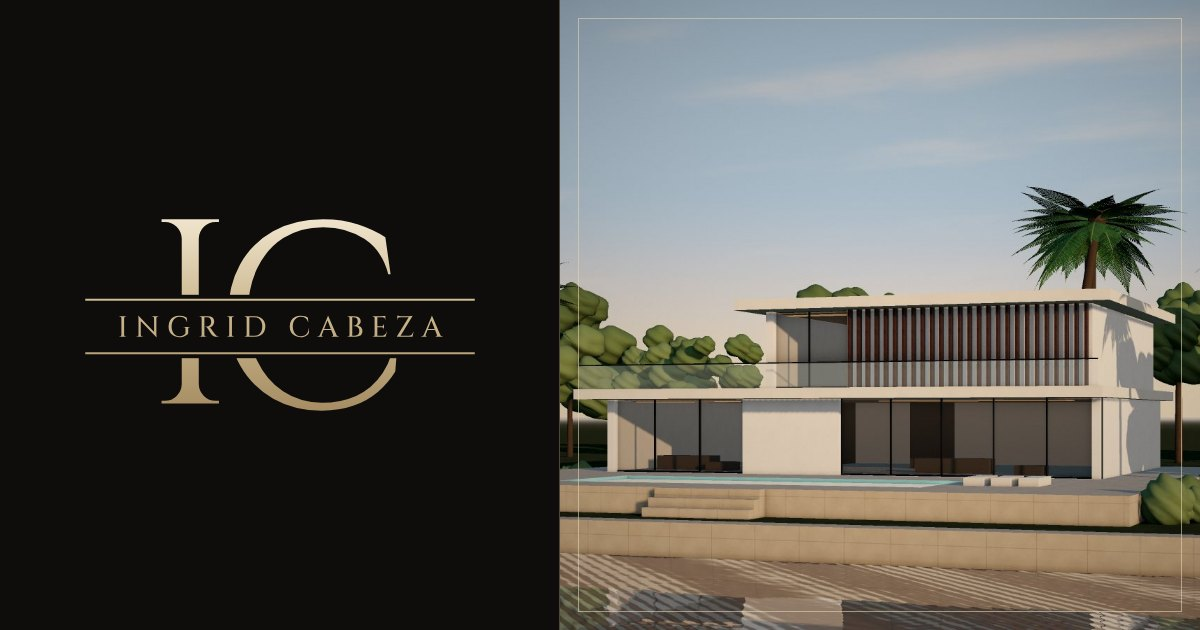
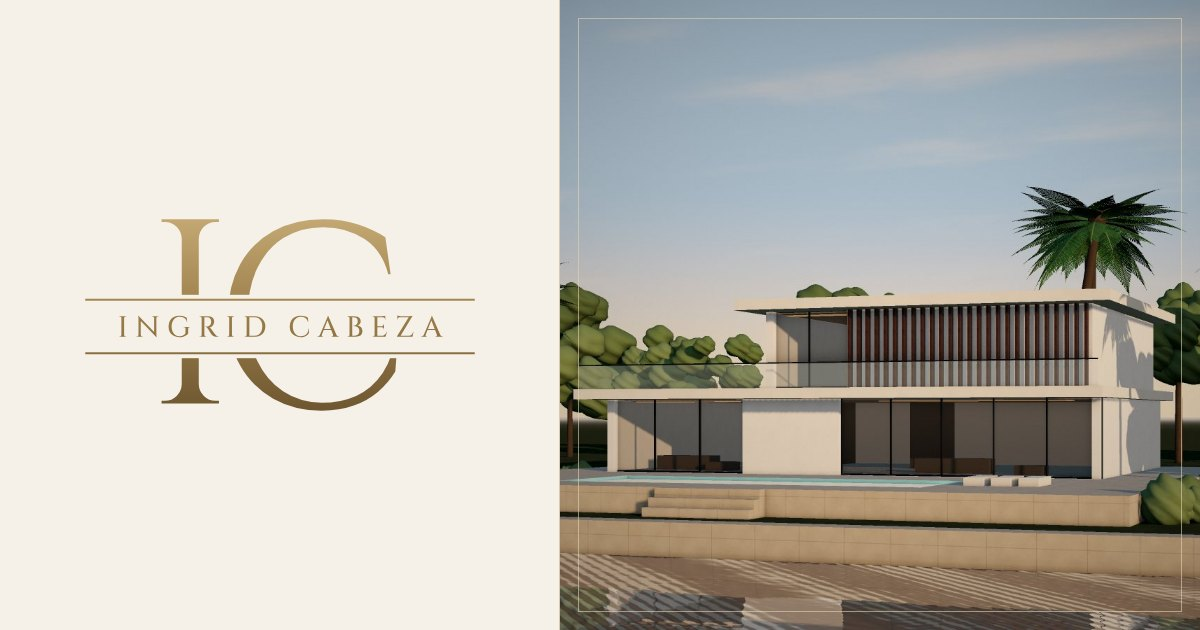
Switch the Ingrid Cabeza site to an ivory, black and gold palette
Ivory ground, soft-black text and a deeper gold that reads on light
backgrounds; the logo, monogram and key are regenerated in that gold.
Selected states use black pills, photo badges become ivory, and the
share image is redone on ivory. The black version stays in history
(14955a1).

Claude-Session: https://claude.ai/code/session_016nXFwbKXqHHzuEESuJK4M6

diff --git a/realtor/css/styles.css b/realtor/css/styles.css
@@ -1,24 +1,24 @@
 /* Ingrid Cabeza
-   Layout: the business card set in a browser. Black ground, champagne-gold hairlines and the
+   Layout: the business card in a light version. Ivory ground, black text, champagne-gold hairlines and the
    IC monogram; headings in Cormorant, labels in Cinzel capitals like the name band on the card,
    and listings set like catalogue entries with the price as the headline number. */
 :root {
-  --paper: #0e0d0c;              /* page: the card's black */
-  --mist: #161513;               /* raised sections and placeholders */
-  --deep: #080807;               /* darkest bands: valuation, off-market, footer */
-  --ink: #ece5d8;                /* text: warm ivory */
-  --ink-soft: #a39b8b;
-  --sea: #c9b48b;                /* champagne gold, the accent */
-  --sea-dark: #e2d3b1;           /* lighter gold for hover */
-  --sand: #d8c6a0;
-  --black: #0e0d0c;              /* text on gold */
-  --on-ink: #ece5d8;
-  --on-ink-soft: rgba(236, 229, 216, 0.7);
-  --line: rgba(201, 180, 139, 0.2);
-  --line-dark: rgba(201, 180, 139, 0.24);
-  --gold: linear-gradient(180deg, #efe4cc 0%, #cbb68e 48%, #a68d63 100%);
-  --error: #f0a896;
-  --error-on-ink: #f0a896;
+  --paper: #f6f1e8;              /* page: ivory */
+  --mist: #ede6d9;               /* raised sections and placeholders */
+  --deep: #e9e1d2;               /* deeper ivory bands: valuation, off-market, footer */
+  --ink: #141210;                /* text: soft black */
+  --ink-soft: #5e5649;
+  --sea: #8c7142;                /* gold for text, rules and accents */
+  --sea-dark: #6e5730;           /* darker gold for hover */
+  --sand: #9c7f4a;
+  --black: #141210;              /* text on the gold buttons */
+  --on-ink: #141210;
+  --on-ink-soft: #5e5649;
+  --line: rgba(140, 113, 66, 0.26);
+  --line-dark: rgba(140, 113, 66, 0.3);
+  --gold: linear-gradient(180deg, #e6d4ad 0%, #c9ad78 50%, #a8895a 100%);
+  --error: #9a2f22;
+  --error-on-ink: #9a2f22;
 
   --f-display: "Cormorant Garamond", Cormorant, Garamond, "Times New Roman", serif;
   --f-caps: Cinzel, "Trajan Pro", "Times New Roman", serif;
@@ -32,7 +32,7 @@
 
   --gutter: clamp(16px, 4vw, 56px);
   --header-h: 82px;
-  color-scheme: dark;
+  color-scheme: light;
 }
 
 *,
@@ -63,7 +63,7 @@ button { font: inherit; color: inherit; }
 .section--ink :focus-visible, .footer :focus-visible { outline-color: var(--sand); }
 
 .wrap { width: 100%; max-width: 1360px; margin-inline: auto; padding-inline: var(--gutter); }
-.skip { position: absolute; left: 12px; top: -60px; z-index: 100; background: var(--sea); color: var(--black); padding: 10px 16px; text-decoration: none; }
+.skip { position: absolute; left: 12px; top: -60px; z-index: 100; background: var(--ink); color: var(--paper); padding: 10px 16px; text-decoration: none; }
 .skip:focus { top: 12px; }
 
 /* ---------------------------------------------------------------- type */
@@ -85,11 +85,11 @@ button { font: inherit; color: inherit; }
   transition: background-color .25s ease, color .25s ease, border-color .25s ease;
 }
 .btn--sea { background: var(--gold); color: var(--black); }
-.btn--sea:hover { background: var(--sea-dark); }
+.btn--sea:hover { background: var(--ink); color: var(--paper); }
 .btn--line { border-color: var(--sea); color: var(--ink); background: transparent; }
-.btn--line:hover { background: var(--sea); color: var(--black); }
-.btn--sand { background: var(--sand); color: var(--black); }
-.btn--sand:hover { background: var(--on-ink); }
+.btn--line:hover { background: var(--ink); color: var(--paper); }
+.btn--sand { background: var(--gold); color: var(--black); }
+.btn--sand:hover { background: var(--ink); color: var(--paper); }
 .link-btn {
   background: none; border: 0; padding: 0; cursor: pointer; text-align: left;
   font-weight: 600; font-size: 0.9375rem; color: var(--sea);
@@ -106,7 +106,7 @@ button { font: inherit; color: inherit; }
 .site-header {
   position: sticky; top: 0; z-index: 50;
   padding-top: env(safe-area-inset-top, 0px);
-  background: rgba(14, 13, 12, 0.9);
+  background: rgba(246, 241, 232, 0.92);
   backdrop-filter: blur(10px);
   transition: box-shadow .3s ease;
 }
@@ -122,11 +122,11 @@ button { font: inherit; color: inherit; }
 .nav a { text-decoration: none; white-space: nowrap; font-size: 0.9375rem; font-weight: 400; padding-block: 6px; border-bottom: 1px solid transparent; }
 .nav a:hover { border-bottom-color: currentColor; }
 .nav .nav__cta { background: transparent; color: var(--sea); padding: 10px 18px; border-radius: 999px; border: 1px solid var(--sea); }
-.nav .nav__cta:hover { background: var(--sea); color: var(--black); }
+.nav .nav__cta:hover { background: var(--ink); color: var(--paper); }
 .header__tools { display: flex; align-items: center; gap: 10px; }
 .lang { display: inline-flex; border: 1px solid var(--line); border-radius: 999px; padding: 3px; }
 .lang button { background: none; border: 0; border-radius: 999px; cursor: pointer; font-size: 0.75rem; font-weight: 600; letter-spacing: 0.08em; padding: 5px 10px; color: var(--ink-soft); }
-.lang button[aria-pressed="true"] { background: var(--sea); color: var(--black); }
+.lang button[aria-pressed="true"] { background: var(--ink); color: var(--paper); }
 .menu-btn { display: none; width: 44px; height: 44px; background: none; border: 0; cursor: pointer; position: relative; }
 .menu-btn span { position: absolute; left: 11px; right: 11px; height: 1.5px; background: currentColor; transition: transform .3s ease; }
 .menu-btn span:first-child { top: 18px; }
@@ -162,11 +162,11 @@ button { font: inherit; color: inherit; }
 
 .hero__feature { position: relative; margin: 0; }
 .hero__media { aspect-ratio: 6 / 5; }
-.hero__media::after { content: ""; position: absolute; inset: 14px; z-index: 1; border: 1px solid rgba(226, 211, 177, 0.55); pointer-events: none; }
+.hero__media::after { content: ""; position: absolute; inset: 14px; z-index: 1; border: 1px solid rgba(246, 241, 232, 0.7); pointer-events: none; }
 .feature-card {
   z-index: 2; border: 1px solid var(--line);
   position: absolute; left: clamp(-64px, -4vw, -24px); bottom: 32px; width: min(340px, 80%);
-  display: grid; gap: 4px; padding: 22px 26px 24px; background: var(--paper); box-shadow: 0 20px 50px -24px rgba(0, 0, 0, 0.6);
+  display: grid; gap: 4px; padding: 22px 26px 24px; background: var(--paper); box-shadow: 0 24px 50px -28px rgba(60, 45, 20, 0.45);
 }
 .feature-card__status { font-size: 0.72rem; font-weight: 600; letter-spacing: 0.16em; text-transform: uppercase; color: var(--sea); }
 .feature-card__title { font-family: var(--f-display); font-size: 1.45rem; line-height: 1.2; margin-top: 4px; }
@@ -250,7 +250,7 @@ button { font: inherit; color: inherit; }
 .pcard__badges { position: absolute; top: 14px; left: 14px; right: 14px; z-index: 2; display: flex; flex-wrap: wrap; gap: 6px; }
 .pcard__photos {
   position: absolute; right: 12px; bottom: 12px; z-index: 2; display: inline-flex; align-items: center; gap: 6px;
-  padding: 5px 10px; border-radius: 999px; background: rgba(0, 0, 0, 0.6); color: var(--ink);
+  padding: 5px 10px; border-radius: 999px; background: rgba(20, 18, 16, 0.6); color: #f6f1e8;
   font-size: 0.75rem; font-weight: 600; font-variant-numeric: tabular-nums;
 }
 .pcard__photos .icon { width: 15px; height: 15px; }
@@ -283,13 +283,13 @@ button { font: inherit; color: inherit; }
 
 .badge {
   display: inline-block; font-size: 0.6875rem; font-weight: 700; letter-spacing: 0.12em; text-transform: uppercase;
-  padding: 6px 11px; border-radius: 999px; background: rgba(14, 13, 12, 0.85); color: var(--ink); line-height: 1.2; font-family: var(--f-body);
+  padding: 6px 11px; border-radius: 999px; background: rgba(246, 241, 232, 0.92); color: var(--ink); line-height: 1.2; font-family: var(--f-body);
 }
 .badge--new { background: var(--gold); color: var(--black); }
-.badge--contract { background: var(--ink); color: var(--black); }
-.badge--sold { background: rgba(14, 13, 12, 0.85); color: var(--ink-soft); border: 1px solid var(--line); }
-.badge--private { background: rgba(14, 13, 12, 0.85); color: var(--ink); border: 1px solid var(--line); }
-.badge--exclusive { background: rgba(14, 13, 12, 0.85); color: var(--sea); border: 1px solid rgba(201, 180, 139, 0.6); }
+.badge--contract { background: var(--ink); color: var(--paper); }
+.badge--sold { background: rgba(246, 241, 232, 0.92); color: var(--ink-soft); border: 1px solid var(--line); }
+.badge--private { background: rgba(246, 241, 232, 0.92); color: var(--ink); border: 1px solid var(--line); }
+.badge--exclusive { background: var(--ink); color: #e6d4ad; }
 
 @media (max-width: 1200px) { .pgrid, .pgrid--four { grid-template-columns: repeat(2, minmax(0, 1fr)); } }
 @media (max-width: 620px) {
@@ -321,7 +321,7 @@ button { font: inherit; color: inherit; }
 .optabs { display: inline-flex; border: 1px solid var(--line); border-radius: 999px; padding: 4px; }
 .optabs button { display: inline-flex; align-items: center; gap: 8px; background: none; border: 0; border-radius: 999px; padding: 11px 20px; cursor: pointer; font-weight: 600; font-size: 0.9375rem; color: var(--ink-soft); }
 .optabs small { font-size: 0.75rem; opacity: 0.75; font-variant-numeric: tabular-nums; }
-.optabs button[aria-pressed="true"] { background: var(--sea); color: var(--black); }
+.optabs button[aria-pressed="true"] { background: var(--ink); color: var(--paper); }
 
 .catalog { padding-block: clamp(28px, 4vw, 48px) clamp(72px, 9vw, 120px); }
 .catalog__grid { display: grid; grid-template-columns: 296px minmax(0, 1fr); gap: clamp(28px, 4vw, 64px); align-items: start; }
@@ -359,7 +359,7 @@ select.finput {
   transition: background-color .2s ease, color .2s ease, border-color .2s ease;
 }
 .seg label:hover span { border-color: var(--ink); }
-.seg input:checked + span { background: var(--sea); border-color: var(--sea); color: var(--black); }
+.seg input:checked + span { background: var(--ink); border-color: var(--ink); color: var(--paper); }
 .seg input:focus-visible + span { outline: 2px solid var(--sea); outline-offset: 2px; }
 .filters__foot { display: flex; align-items: center; justify-content: space-between; gap: 12px; padding: 18px 0 4px; border-top: 1px solid var(--line); }
 .filters__apply { display: none; }
@@ -388,7 +388,7 @@ select.finput {
 .filters-btn__n { display: inline-grid; place-items: center; min-width: 20px; height: 20px; padding: 0 6px; border-radius: 999px; background: var(--sea); color: var(--paper); font-size: 0.72rem; }
 .view { display: inline-flex; border: 1px solid var(--line); border-radius: 999px; padding: 3px; }
 .view button { display: grid; place-items: center; width: 38px; height: 32px; background: none; border: 0; border-radius: 999px; cursor: pointer; color: var(--ink-soft); }
-.view button[aria-pressed="true"] { background: var(--sea); color: var(--black); }
+.view button[aria-pressed="true"] { background: var(--ink); color: var(--paper); }
 @media (max-width: 620px) { .view { display: none; } }
 .chips { display: flex; flex-wrap: wrap; gap: 8px; margin-bottom: 26px; }
 .chip {
@@ -410,7 +410,7 @@ select.finput {
   font-weight: 600; font-variant-numeric: tabular-nums; cursor: pointer;
 }
 .pager button:hover:not(:disabled) { border-color: var(--ink); }
-.pager [aria-current="page"] { background: var(--sea); border-color: var(--sea); color: var(--black); }
+.pager [aria-current="page"] { background: var(--ink); border-color: var(--ink); color: var(--paper); }
 .pager button:disabled { opacity: 0.4; cursor: default; }
 .filters-scrim { position: fixed; inset: 0; z-index: 79; background: rgba(0, 0, 0, 0.6); }
 
@@ -475,7 +475,7 @@ select.finput {
 .services__intro .eyebrow { margin-bottom: -12px; }
 .tabs { display: flex; flex-wrap: wrap; gap: 6px; border: 1px solid var(--line); border-radius: 999px; padding: 4px; }
 .tabs [role="tab"] { background: none; border: 0; border-radius: 999px; padding: 10px 18px; cursor: pointer; font-weight: 600; font-size: 0.9375rem; color: var(--ink-soft); }
-.tabs [role="tab"][aria-selected="true"] { background: var(--sea); color: var(--black); }
+.tabs [role="tab"][aria-selected="true"] { background: var(--ink); color: var(--paper); }
 .panel { display: grid; grid-template-columns: repeat(2, minmax(0, 1fr)); gap: 0 clamp(20px, 3vw, 44px); }
 .point { padding: 24px 0 28px; border-top: 1px solid var(--line); display: grid; gap: 8px; align-content: start; }
 .point h3 { font-family: var(--f-display); font-size: 1.35rem; line-height: 1.2; }
@@ -511,7 +511,7 @@ select.finput {
 .form__status small { display: block; font-weight: 400; color: var(--ink-soft); margin-top: 4px; }
 
 .form--dark .field label { color: var(--on-ink-soft); }
-.form--dark .field input, .form--dark .field select { background: rgba(236, 241, 239, 0.06); border-color: var(--line-dark); color: var(--on-ink); }
+.form--dark .field input, .form--dark .field select { background: rgba(255, 255, 255, 0.55); border-color: var(--line-dark); color: var(--on-ink); }
 .form--dark .field select option { color: var(--ink); background: var(--paper); }
 .form--dark .field input:focus, .form--dark .field select:focus { border-color: var(--sand); }
 .form--dark .field__error { color: var(--error-on-ink); }
@@ -692,7 +692,7 @@ select.finput {
     position: fixed; left: 0; right: 0; bottom: 0; z-index: 60;
     display: grid; grid-template-columns: 1fr 1fr 1.5fr; gap: 8px;
     padding: 10px 14px calc(10px + env(safe-area-inset-bottom, 0px));
-    background: rgba(14, 13, 12, 0.96); backdrop-filter: blur(8px); box-shadow: 0 -1px 0 var(--line);
+    background: rgba(246, 241, 232, 0.96); backdrop-filter: blur(8px); box-shadow: 0 -1px 0 var(--line);
   }
   .action-bar a { display: flex; align-items: center; justify-content: center; min-height: 46px; border-radius: 999px; border: 1px solid var(--ink); font-weight: 600; font-size: 0.875rem; text-decoration: none; color: var(--ink); }
   .action-bar .action-bar__main { background: var(--sea); border-color: var(--sea); color: var(--paper); }

diff --git a/realtor/index.html b/realtor/index.html
@@ -5,7 +5,7 @@
   <meta name="viewport" content="width=device-width, initial-scale=1, viewport-fit=cover">
   <title>Ingrid Cabeza · Miami Luxury Real Estate</title>
   <meta name="description" content="Waterfront and estate homes in Miami Beach, Key Biscayne, Coral Gables and Coconut Grove. Private showings, off-market listings and guidance for international buyers.">
-  <meta name="theme-color" content="#0e0d0c">
+  <meta name="theme-color" content="#f6f1e8">
   <meta property="og:type" content="website">
   <meta property="og:title" content="Ingrid Cabeza · Miami Luxury Real Estate">
   <meta property="og:description" content="Waterfront and estate homes in Miami, represented with discretion.">
@@ -318,11 +318,11 @@
           <svg viewBox="0 0 300 760" width="300" height="760" focusable="false">
             <defs>
               <linearGradient id="key-gold" x1="0" y1="0" x2="300" y2="760" gradientUnits="userSpaceOnUse">
-                <stop offset="0" stop-color="#efe4cc"/><stop offset=".5" stop-color="#cbb68e"/><stop offset="1" stop-color="#a68d63"/>
+                <stop offset="0" stop-color="#c4a874"/><stop offset=".5" stop-color="#9c7f4a"/><stop offset="1" stop-color="#6e5631"/>
               </linearGradient>
               <clipPath id="key-frame"><path d="M216 74 A66 66 0 0 1 216 206 A66 66 0 0 1 84 206 A66 66 0 0 1 84 74 A66 66 0 0 1 216 74 Z"/></clipPath>
             </defs>
-            <rect x="0" y="0" width="300" height="290" fill="#1a1916" clip-path="url(#key-frame)"/>
+            <rect x="0" y="0" width="300" height="290" fill="#ebe3d3" clip-path="url(#key-frame)"/>
             <image href="img/logo-mark.svg" x="105" y="104" width="90" height="73"/>
             <!-- <image href="img/ingrid.jpg" x="20" y="10" width="260" height="260" preserveAspectRatio="xMidYMid slice" clip-path="url(#key-frame)"/> -->
             <g fill="none" stroke="url(#key-gold)">

diff --git a/realtor/properties.html b/realtor/properties.html
@@ -5,7 +5,7 @@
   <meta name="viewport" content="width=device-width, initial-scale=1, viewport-fit=cover">
   <title>Properties for sale and rent in Miami · Ingrid Cabeza</title>
   <meta name="description" content="Luxury homes, penthouses and residences for sale and for rent in Miami Beach, Key Biscayne, Coral Gables, Coconut Grove, Pinecrest, Golden Beach and Brickell.">
-  <meta name="theme-color" content="#0e0d0c">
+  <meta name="theme-color" content="#f6f1e8">
   <meta property="og:type" content="website">
   <meta property="og:title" content="Properties · Ingrid Cabeza">
   <meta property="og:description" content="Luxury homes for sale and for rent in Miami.">

diff --git a/realtor/property.html b/realtor/property.html
@@ -5,7 +5,7 @@
   <meta name="viewport" content="width=device-width, initial-scale=1, viewport-fit=cover">
   <title>Property · Ingrid Cabeza</title>
   <meta name="description" content="Property details, photos and private showings with Ingrid Cabeza in Miami.">
-  <meta name="theme-color" content="#0e0d0c">
+  <meta name="theme-color" content="#f6f1e8">
   <meta property="og:type" content="website">
   <meta property="og:title" content="Ingrid Cabeza · Miami Luxury Real Estate">
   <meta property="og:description" content="Waterfront and estate homes in Miami, represented with discretion.">

diff --git a/README.md b/README.md
@@ -71,7 +71,7 @@ Tamaños recomendados: portada 2000 × 1250 px, tarjetas 1200 × 900 px, vecinda
 
 Los dibujos técnicos (alzados en `constructora/img/elevation*.svg` y el plano del lote en `inversionistas/img/siteplan.svg`) son SVG y se pueden conservar.
 
-Logo de Ingrid Cabeza: `realtor/img/logo.svg` (monograma IC con el nombre, el de la tarjeta), `logo-mark.svg` (solo IC, para la cabecera), `favicon.svg` y `key.svg` (la llave). Son vectores dorados sobre fondo transparente, listos para imprimir o usar en redes.
+Logo de Ingrid Cabeza: `realtor/img/logo.svg` (monograma IC con el nombre, el de la tarjeta), `logo-mark.svg` (solo IC, para la cabecera), `favicon.svg` y `key.svg` (la llave). Son vectores dorados sobre fondo transparente, listos para imprimir o usar en redes. La web usa la versión clara (marfil, negro y dorado); la versión negra con dorado está guardada en el historial de git (commit 14955a1).
 
 Para la foto de Ingrid, guarde el retrato como `realtor/img/ingrid.jpg` y descomente la línea `<image href="img/ingrid.jpg" …>` de la llave en la sección "Sobre mí" de `realtor/index.html`. Hasta entonces, el marco de la llave muestra el monograma IC.
 
